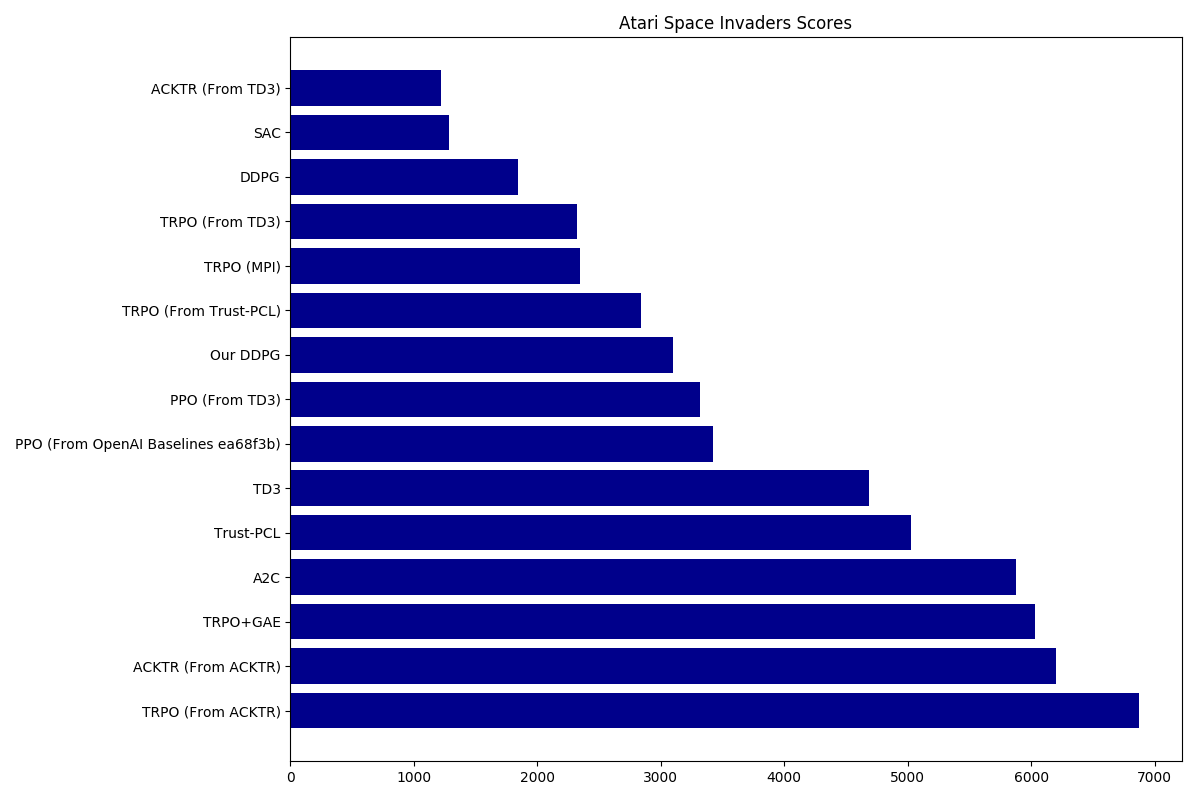
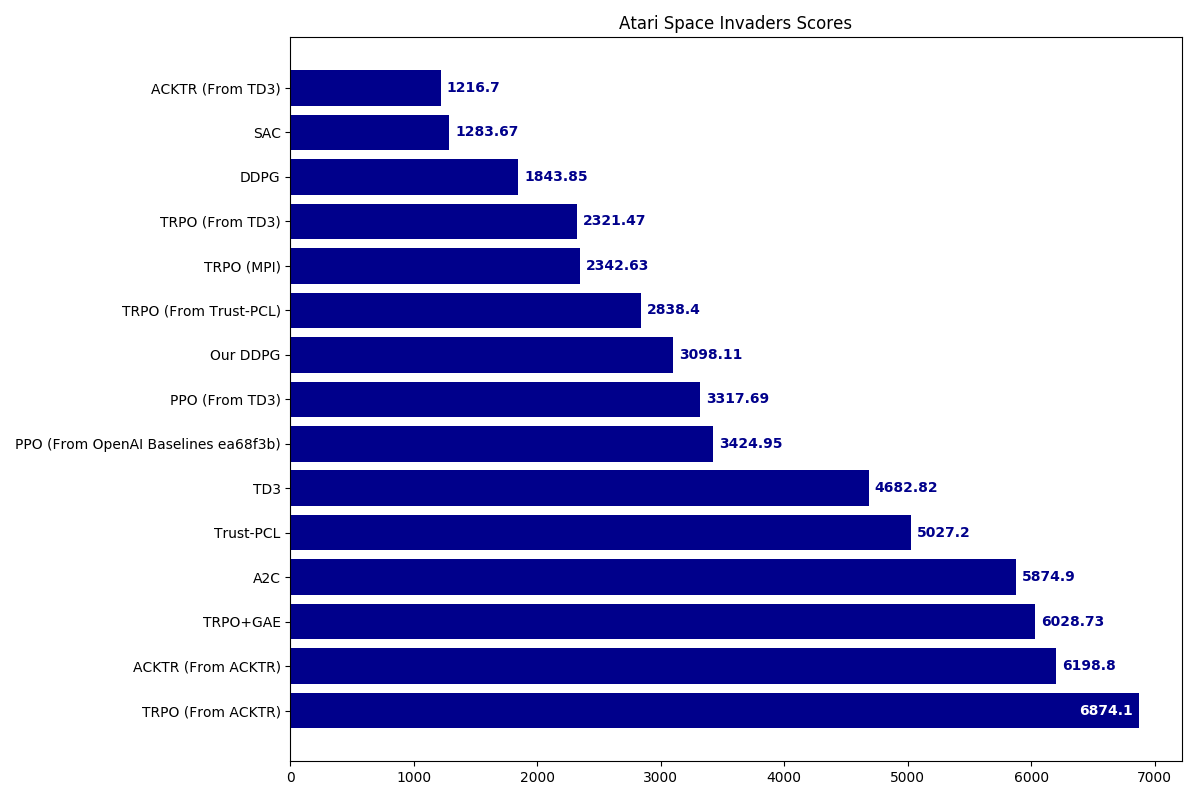
Add score labels to bar plots (#49)
* Add smart labels for scores in barplot

* Change smart label style

* Update README plots

diff --git a/example_plot.py b/example_plot.py
@@ -15,12 +15,43 @@ def env_barplot(filter, plot_title, plot_name):
     labels, scores, colors = entries_to_labels_scores(sorted_entries)
 
     # Draw bar plot
-    plt.figure(figsize=(12, 8))
-    bars = plt.barh(labels, scores, color=colors)
-    # Color 'Human' and 'Random' entries
+    fig, ax = plt.subplots(figsize=(12, 8))
+    bars = ax.barh(labels, scores, color=colors)
 
-    # Add text
+    # Add title
     plt.title(plot_title)
+
+    # Add score labels
+    switch_label_align = False # If true, put score label outside of barplot
+    for i, (bar, entry, score) in enumerate(zip(bars, sorted_entries, scores)):
+
+        text = ax.text(
+            x=bar.get_x() + bar.get_width() - 50,
+            y=bar.get_y() + bar.get_height() / 2,
+            s=str(score),
+            color='white',
+            fontweight='bold',
+            ha='right',
+            va='center',
+        )
+
+        # Check if putting score label outside of barplot would make it too long
+        bar_x1 = bar.get_window_extent(renderer=fig.canvas.get_renderer()).x1
+        ax_x1 = ax.get_window_extent(renderer=fig.canvas.get_renderer()).x1
+        text_width = text.get_window_extent(renderer=fig.canvas.get_renderer()).width
+        if switch_label_align or bar_x1 + text_width < ax_x1:
+            switch_label_align = True
+            text.set_x(bar.get_x() + bar.get_width() + 50)
+            text.set_ha('left')
+
+            if entry['algo-title'] == 'Human':
+                color = 'red'
+            elif entry['algo-title'] == 'Random':
+                color = 'black'
+            else:
+                color = 'darkblue'
+            text.set_color(color)
+
     plt.tight_layout()
     plt.savefig('docs/{}.png'.format(plot_name))
     # plt.show()
@@ -44,7 +75,6 @@ def entries_to_labels_scores(entries):
             label += ' (From {})'.format(entry['source-nickname'])
 
         # Special color for 'Human' and 'Random'
-        
         if entry['algo-title'] == 'Human':
             color = 'red'
         elif entry['algo-title'] == 'Random':
